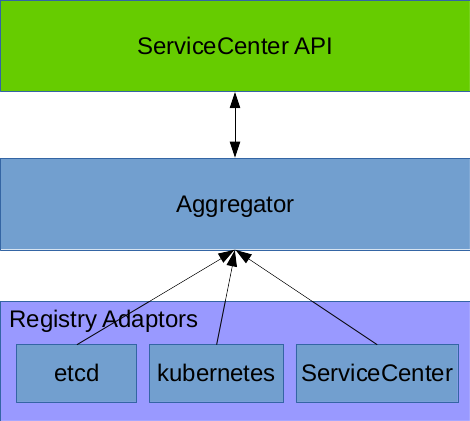
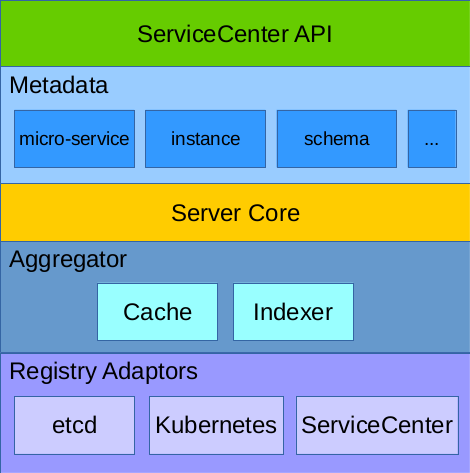
SCB-993 Update the design document

diff --git a/docs/design.md b/docs/design.md
@@ -1,10 +1,18 @@
 ## Service-Center Design
 
 Service-Center(SC) is a service registry that allows services to register their instance information and to discover providers of a given service.
-SC uses etcd to store all the information of micro-service and its instances. Below is the diagram stating the working principles and flow of SC.
+Generally, SC uses etcd to store all the information of micro-service and its instances.
+
+![architecture](/docs/aggregator-design.PNG)
+
+Below is the diagram stating the working principles and flow of SC.
 
 #### On StartUp
-Here we assume that micro-services are written using [java-chassis](https://github.com/ServiceComb/java-chassis) sdk. So when micro-service boots up then java-chassis sdk does the following list of tasks.
+Here describes a standard client registration process.
+We assume that micro-services are written using 
+[java-chassis](https://github.com/ServiceComb/java-chassis) sdk or 
+[go-chassis](https://github.com/go-chassis/go-chassis) sdk.
+So when micro-service boots up then java-chassis sdk does the following list of tasks.
 
 1. On startup provider registers the micro-service to SC if not registered earlier and also register its instance information like its Ip and Port on which instance is running.
 2. SC stores the provider information in etcd.
@@ -23,4 +31,4 @@ Provider instance regularly sends heartbeat signal every 30 seconds to SC, if SC
 Consumer watches the information of provider instances from SC and if there is any change then the cache is updated.  
 When Consumer needs to communicate to Provider then consumer reads endpoints of the provider instances from cache and do loadbalancing to communicate to Provider.
 
-Note: This document is in beta stage, feel free to contribute to this document.
+Note: Feel free to contribute to this document.
